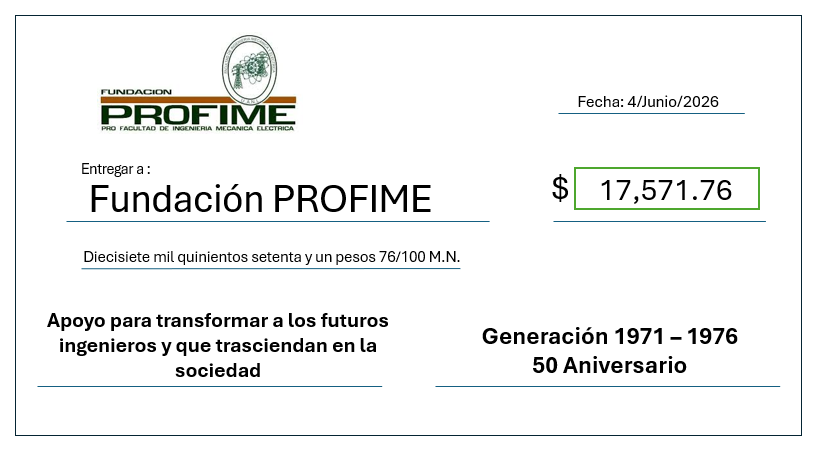
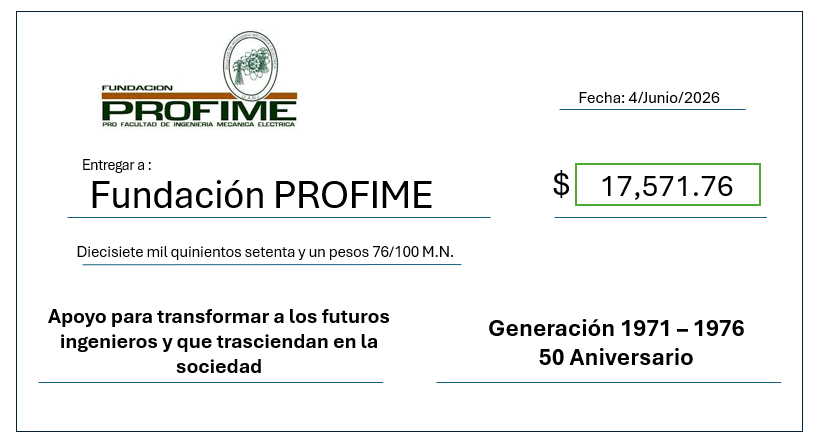
Agregadas Generaciones hasta 19 Junio 2026

diff --git a/pages/historial-de-donaciones.html b/pages/historial-de-donaciones.html
@@ -433,7 +433,7 @@
 		</div>
 	</section>
 
-		<section style="padding: 30px 1rem;">
+	<section style="padding: 30px 1rem;">
 		<div>
 			<h2 style="text-align: center;font-family: 'Playfair Display', serif;font-size: 2rem;color: var(--verde-fime);
 		margin-bottom: 1rem;font-weight: 700;">Generación 1971 - 1976</h2>
@@ -446,6 +446,35 @@
 				alt="Cheque Generación 1971 - 1976">
 		</div>
 	</section>
+
+	<section style="padding: 30px 1rem;">
+		<div>
+			<h2 style="text-align: center;font-family: 'Playfair Display', serif;font-size: 2rem;color: var(--verde-fime);
+		margin-bottom: 1rem;font-weight: 700;">Generación 1971 - 1976 "Amigos Incomparables"</h2>
+		</div>
+		<div class="contenedor-imagenes">
+			<img src="../images/Fotos generaciones donadoras/5Junio2026.jpg" alt="Generación 1971 - 1976 'Amigos Incomparables'">
+			<img src="../images/Fotos generaciones donadoras/EntregaCheque5Junio2026.jpg"
+				alt="Entrega Generación 1971 - 1976 'Amigos Incomparables'">
+			<img src="../images/Fotos generaciones donadoras/Cheque5Junio2026.png"
+				alt="Cheque Generación 1971 - 1976 'Amigos Incomparables'">
+		</div>
+	</section>
+
+		<section style="padding: 30px 1rem;">
+		<div>
+			<h2 style="text-align: center;font-family: 'Playfair Display', serif;font-size: 2rem;color: var(--verde-fime);
+		margin-bottom: 1rem;font-weight: 700;">Generación 1964 - 1969</h2>
+		</div>
+		<div class="contenedor-imagenes">
+			<img src="../images/Fotos generaciones donadoras/19Junio2026.jpg" alt="Generación 1964 - 1969">
+			<img src="../images/Fotos generaciones donadoras/EntregaCheque19Junio2026.jpg"
+				alt="Entrega Generación 1964 - 1969">
+			<img src="../images/Fotos generaciones donadoras/Cheque19Junio2026.png"
+				alt="Cheque Generación 1964 - 1969">
+		</div>
+	</section>
+
 
 	<hr class="separator-line" />
 
